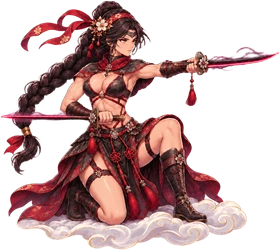
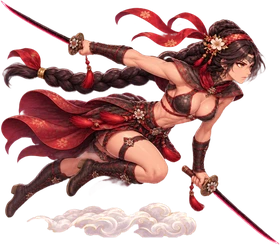
그믐: 달래 각성 게임 그림을 앞으로 뛰어드는 쌍검 자세로 교체, 가로로 긴 각성 그림은 폭 기준으로 크기 맞춤
Claude-Session: https://claude.ai/code/session_01X3WCR5Skc58i6ujNZho15h

diff --git a/game/geumeum/dokkaebi-shooter.html b/game/geumeum/dokkaebi-shooter.html
@@ -3592,7 +3592,7 @@ function drawBossCut() { const b = G.boss; const U = b && b.ult; if (U && U.t < 
 const AWK2 = { spr: { 0: 'aw0p', 1: 'aw1p', 2: 'aw2p' }, col: ['#9fffe0', '#ffd76a', '#cfe8ff'], trail: [5, 10, 15], endSec: 0.4, shotK: 1.3, skOff: [-28, 28], skK: 0.75 }; // spr: 각성 게임 캐릭터 그림(들어오면 { 0: 'aw0p', ... })
 for (const k of Object.values(AWK2.spr)) needImg(k);
 const awCol = ch => AWK2.col[ch] || CH[ch].spark || CH[ch].robe;
-function drawAwakeP() { const ch = P.ch, sc = FUN2.awakeScale, img = (AWK2.spr[ch] && ok(IMG[AWK2.spr[ch]])) ? AWK2.spr[ch] : look(ch).img, h = CH[ch].h * SZ.p * sc, col = awCol(ch), L = G.awTrail || [];
+function drawAwakeP() { const ch = P.ch, sc = FUN2.awakeScale, img = (AWK2.spr[ch] && ok(IMG[AWK2.spr[ch]])) ? AWK2.spr[ch] : look(ch).img, h0 = CH[ch].h * SZ.p * sc, imw = IMG[img], h = ok(imw) && imw.naturalWidth > imw.naturalHeight * 1.05 ? h0 * 1.05 * imw.naturalHeight / imw.naturalWidth : h0, col = awCol(ch), L = G.awTrail || []; // 가로로 긴 그림은 폭 기준으로 줄여 다른 캐릭터와 크기를 맞춤
   for (let i = AWK2.trail.length - 1; i >= 0; i--) { const q = L[L.length - 1 - AWK2.trail[i]]; if (q) spr(img, q.x + 2, q.y - 3, h, { flip: CH[ch].flip, add: 1, alpha: 0.28 - i * 0.07 }); }
   ctx.save(); ctx.translate(P.x, P.y + 4); ctx.rotate(G.time * 1.4); ctx.strokeStyle = col; ctx.globalAlpha = 0.7; ctx.lineWidth = 2.5; ctx.setLineDash([14, 8]); ctx.beginPath(); ctx.ellipse(0, 0, 46, 18, 0, 0, TAU); ctx.stroke(); ctx.restore();
   ctx.save(); ctx.globalCompositeOperation = 'lighter'; glow(CH[ch].glow || 'gold', P.x, P.y, 52 + Math.sin(G.time * 6) * 5, 0.45); ctx.restore();
